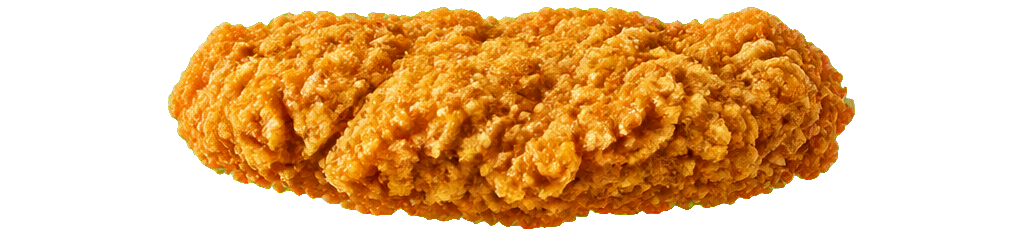
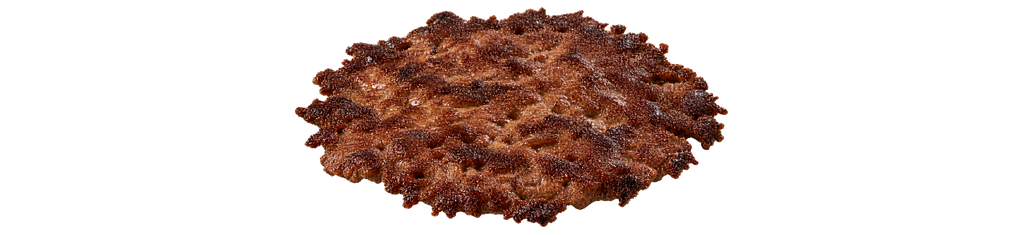
Correct MELT menu and scroll burger to double beef

diff --git a/app/page.tsx b/app/page.tsx
@@ -1,12 +1,12 @@
 import {Navbar} from "@/components/Navbar";import {BurgerScrollHero} from "@/components/BurgerScrollHero";import {ArrowButton} from "@/components/ArrowButton";import {AddToCartButton} from "@/components/cart/AddToCartButton";import {site} from "@/data/site";import {ArrowUpRight} from "lucide-react";
-const qualities=[["DOUBLE CRUNCH","Two hand-breaded chicken fillets."],["MOLTEN CHEESE","Melted between every hot layer."],["FRESH BUNS","Soft sesame brioche, toasted to order."],["HOUSE SAUCE","Creamy heat, mixed in-house."]];
+const qualities=[["DOUBLE SMASH","Two beef patties smashed on a ripping-hot grill."],["MOLTEN CHEESE","Cheddar melted over every beef layer."],["FRESH BUNS","Soft sesame brioche, toasted to order."],["HOUSE SAUCE","Creamy heat, mixed in-house."]];
 export default function Home(){return <main><Navbar/><BurgerScrollHero/>
 <section id="stacks" className="stacks section-pad"><div className="eyebrow">01 — MELT FAVOURITES</div><h2>MEET THE<br/><em>MELTS.</em></h2><div className="burger-grid">{site.burgers.map((b,i)=><article className={`burger-card ${b.tone}`} key={b.name}><div className="product-art"><div role="img" aria-label={b.name} className="mini-burger" style={{backgroundImage:"url('/assets/zinger-assembled.png')"}}/><span>0{i+1}</span></div><div className="card-copy"><div><h3>{b.name}</h3><p>{b.desc}</p></div><div className="card-actions"><div className="price">Rs. {b.price.toLocaleString("en-PK")}</div><AddToCartButton item={{id:`burger-${i}`,name:b.name,price:b.price}}/></div></div></article>)}</div></section>
-<section id="combos" className="combo"><div className="combo-copy"><div className="eyebrow">02 — GO ALL IN</div><h2>MAKE IT<br/><i>A MELT.</i></h2><p>MIGHTY ZINGER + SEASONED FRIES + AN ICE-COLD POUR.</p><ArrowButton href="#menu">BUILD YOUR COMBO</ArrowButton></div><div className="combo-visual"><div className="fries">FRIES<span>HOT / CRISP / SEASONED</span></div><div className="cup">MELT<small>ICE COLD</small></div><div className="combo-burger"/></div></section>
+<section id="combos" className="combo"><div className="combo-copy"><div className="eyebrow">02 — GO ALL IN</div><h2>MAKE IT<br/><i>A MELT.</i></h2><p>THE WACKO + CRINKLE FRIES + AN ICE-COLD POUR.</p><ArrowButton href="#menu">BUILD YOUR COMBO</ArrowButton></div><div className="combo-visual"><div className="fries">FRIES<span>HOT / CRISP / SEASONED</span></div><div className="cup">MELT<small>ICE COLD</small></div><div className="combo-burger"/></div></section>
 <section id="quality" className="quality section-pad"><div className="eyebrow">03 — BUILT DIFFERENT</div><h2>NO<br/><em>HALF MEASURES.</em></h2><div className="quality-list">{qualities.map((x,i)=><div key={x[0]}><span>0{i+1}</span><h3>{x[0]}</h3><p>{x[1]}</p></div>)}</div></section>
 <section className="manifesto"><span>FRIED FRESH.</span><span>STACKED DOUBLE.</span><span className="hot">MELTED HOT.</span></section>
 <section id="menu" className="menu-section section-pad"><div className="menu-head"><div><div className="eyebrow">04 — THE MENU</div><h2>PICK YOUR<br/><em>CRAVING.</em></h2></div><p>Made fresh.<br/>Packed hot.</p></div><div className="menu-columns">{Object.entries(site.menu).map(([cat,items])=><div className="menu-cat" key={cat}><h3>{cat}</h3>{items.map(item=><div className="menu-item" key={item[0]}><div><b>{item[0]}</b><span>{item[1]}</span></div><div className="menu-buy"><strong>Rs. {Number(item[2]).toLocaleString("en-PK")}</strong><AddToCartButton compact item={{id:`${cat}-${item[0]}`.toLowerCase().replaceAll(" ","-"),name:item[0],price:Number(item[2])}}/></div></div>)}</div>)}</div></section>
 <section className="fries-feature"><div><span>THE CRUNCH<br/>NEEDS COMPANY.</span><h2>DON&apos;T FORGET<br/><i>THE FRIES.</i></h2></div><div className="fries-pile">LOAD<br/>THE<br/>FRIES.</div></section>
 <section id="locations" className="locations section-pad"><div className="eyebrow">05 — COME THROUGH</div><h2>FIND<br/><em>MELT.</em></h2><div className="location-list">{site.locations.map((l,i)=><a href={`https://www.google.com/maps/search/?api=1&query=${encodeURIComponent(`MELT ${l.address} ${l.city}`)}`} target="_blank" rel="noreferrer" key={l.city}><span>0{i+1}</span><h3>{l.city}</h3><p>{l.address}<br/>{l.hours}</p><ArrowUpRight/></a>)}</div></section>
-<section id="order" className="order-cta"><div className="eyebrow">YOUR DOUBLE MELT IS WAITING.</div><h2>HUNGRY<br/><i>YET?</i></h2><ArrowButton light href="#stacks">ORDER NOW</ArrowButton></section>
-<footer><div className="footer-brand">MELT</div><div className="footer-links"><div><b>EXPLORE</b><a href="#menu">Menu</a><a href="#locations">Location</a><a href="#quality">Our food</a></div><div><b>CONNECT</b><a href="https://instagram.com/meltpk" target="_blank" rel="noreferrer">Instagram</a><a href="#order">Order</a></div><div><b>SUPPORT</b><a href="#quality">Ingredients</a><a href="#locations">Directions</a></div></div><div className="footer-bottom">UNOFFICIAL MELT WEBSITE CONCEPT <span>BUILT HOT IN LAHORE.</span></div></footer></main>}
+<section id="order" className="order-cta"><div className="eyebrow">YOUR DOUBLE SMASH IS WAITING.</div><h2>HUNGRY<br/><i>YET?</i></h2><ArrowButton light href="#stacks">ORDER NOW</ArrowButton></section>
+<footer><div className="footer-brand">MELT</div><div className="footer-links"><div><b>EXPLORE</b><a href="#menu">Menu</a><a href="#locations">Location</a><a href="#quality">Our food</a></div><div><b>CONNECT</b><a href="https://www.facebook.com/MELTpk/" target="_blank" rel="noreferrer">Facebook</a><a href="https://now.menu/melt" target="_blank" rel="noreferrer">Direct menu</a></div><div><b>SUPPORT</b><a href="#quality">Ingredients</a><a href="#locations">Directions</a></div></div><div className="footer-bottom">UNOFFICIAL MELT WEBSITE CONCEPT <span>BUILT HOT IN LAHORE.</span></div></footer></main>}

diff --git a/app/globals.css b/app/globals.css
@@ -65,5 +65,7 @@ section[id]{scroll-margin-top:76px}a,button{-webkit-tap-highlight-color:transpar
 /* MELT Lahore concept system */
 :root{--yellow:#ff6b1a;--red:#ff4b18;--cream:#f5efe5;--ink:#171411}.hero{background:#151311}.hero:before{content:"MELT";color:#261d17}.nav{background:#f5efe5;color:#171411;border-color:#d9cec0}.melt-mark{display:flex;flex-direction:column;align-items:flex-start;gap:0;color:#ff5418}.melt-mark b{font:29px/.8 'Archivo Black';letter-spacing:-.08em}.melt-mark small{font:7px 'Archivo Black';letter-spacing:.28em;margin-left:2px}.hero-kicker i,.complete-copy i,.stacks h2 em,.combo h2 i,.menu-head em,.locations h2 em{color:#ff6b1a}.story-progress i{background:#ff6b1a}.burger-card.orange{background:#ff6b1a;color:#171411}.burger-card.red{background:#df3e1f}.burger-card.cream{background:#f5efe5}.combo{background:#ff6b1a}.fries{background:#171411}.fries:before{color:#f5efe5}.fries-feature,.order-cta{background:#171411}.fries-feature i,.order-cta i{color:#ff6b1a!important}.fries-pile{background:#ff6b1a;color:#171411}.menu-cat h3,.footer-links b{color:#ff6b1a}.burger-card:nth-child(1) .mini-burger{background-image:url('/assets/mighty-zinger-v2.png')!important;background-size:78%}.burger-card:nth-child(2) .mini-burger{background-image:url('/assets/zinger-assembled.png')!important;background-size:contain}.box-front{background:#ff6b1a;color:#171411}.box-front:before{content:"DOUBLE CRUNCH · DOUBLE CHEESE"}.box-front:after{content:"MIGHTY MELT BOX"}.box-front strong{background:#171411;color:#f5efe5}.box-front small{background:#f5efe5}.box-lid{background:#171411;color:#ff6b1a}.box-lid span{background:#ff6b1a;color:#171411}.box-interior{border-color:#ff6b1a}.footer-brand:before{content:"MELT"}.mobile-menu{background:#f5efe5;color:#171411}.cart-nav span{background:#ff6b1a;color:#171411}@media(max-width:699px){.burger-card:nth-child(1) .mini-burger{background-size:88%}}
 .combo-burger{background-image:url('/assets/mighty-zinger-v2.png');mix-blend-mode:normal}.layer-removed{display:block!important}@media(prefers-reduced-motion:reduce){.layer-0{transform:translateY(-158px)!important}.layer-1{transform:translateY(-111px)!important}.layer-2{display:block!important;transform:translateY(-79px)!important}.layer-3{transform:translateY(-47px)!important}.layer-4{transform:translateY(-15px)!important}.layer-5{transform:translateY(17px)!important}.layer-6{transform:translateY(48px)!important}.layer-7{transform:translateY(88px)!important}}
+.burger-card:nth-child(1) .mini-burger,.burger-card:nth-child(2) .mini-burger,.burger-card:nth-child(3) .mini-burger,.burger-card:nth-child(4) .mini-burger{background-image:url('/assets/double-smash-melt-v2.png')!important;background-size:76%;mix-blend-mode:normal}.combo-burger{background-image:url('/assets/double-smash-melt-v2.png')}.box-front:before{content:"DOUBLE BEEF · DOUBLE CHEESE"}.box-front:after{content:"THE WACKO BOX"}@media(max-width:699px){.burger-card:nth-child(n) .mini-burger{background-size:86%}}
+.whatsapp-float{display:none}
 
 

diff --git a/data/site.ts b/data/site.ts
@@ -5,22 +5,22 @@ export const site={
   {id:"top",name:"GOLDEN CROWN",note:"Soft sesame brioche."},
   {id:"lettuce",name:"CRISP LETTUCE",note:"Cold crunch in every bite."},
   {id:"cheese-top",name:"MELTED CHEESE",note:"A molten cheddar blanket."},
-  {id:"patty-top",name:"CRISPY FILLET ONE",note:"Hand-breaded and fried golden."},
+  {id:"patty-top",name:"SMASH PATTY ONE",note:"Beef smashed hard on the grill."},
   {id:"cheese-bottom",name:"MORE CHEESE",note:"Because one layer is never enough."},
-  {id:"patty-bottom",name:"CRISPY FILLET TWO",note:"The mighty second crunch."},
+  {id:"patty-bottom",name:"SMASH PATTY TWO",note:"A second juicy beef layer."},
   {id:"sauce",name:"MELT SAUCE",note:"Creamy heat, made in-house."},
   {id:"bottom",name:"TOASTED BASE",note:"Built from the bottom up."}
  ],
  burgers:[
-  {name:"MIGHTY ZINGER",desc:"Double crispy chicken, double cheddar, lettuce and Melt sauce",price:999,tone:"orange"},
-  {name:"THE WACKO",desc:"Crispy chicken, molten cheese, pickles and house sauce",price:849,tone:"cream"},
-  {name:"SMOKEY MELT",desc:"Crispy chicken, smoked cheddar, caramelized onion and BBQ",price:949,tone:"red"},
-  {name:"FIRE MELT",desc:"Hot chicken, jalapeño, cheese and spicy comeback sauce",price:899,tone:"dark"}
+  {name:"THE WACKO",desc:"Double smashed beef, double cheddar, pickles and Melt sauce",price:999,tone:"orange"},
+  {name:"CLASSIC-O",desc:"Smashed beef, molten cheese, pickles and house sauce",price:749,tone:"cream"},
+  {name:"SMOKEY DOKEY",desc:"Double beef, smoked cheddar, caramelized onion and BBQ",price:949,tone:"red"},
+  {name:"FIERY SRIRACHA",desc:"Double beef, jalapeño, cheese and spicy sriracha sauce",price:899,tone:"dark"}
  ],
  menu:{
-  BURGERS:[["Mighty Zinger","Double chicken · double cheese · Melt sauce","999"],["The Wacko","Crispy chicken · cheddar · house sauce","849"],["Fire Melt","Hot chicken · jalapeño · comeback sauce","899"]],
-  CHICKEN:[["Crispy Strips","Three strips · house dip","749"],["Hot Wings","Six wings · hot glaze","799"]],
-  SIDES:[["Melt Fries","Golden · seasoned","349"],["Loaded Fries","Chicken · cheese · Melt sauce","699"],["Onion Rings","Crispy · ranch","449"]],
+  "BEEF SMASH BURGERS":[["The Wacko","Double beef · double cheese · Melt sauce","999"],["Classic-O","Smashed beef · cheddar · house sauce","749"],["Smokey Dokey","Double beef · onion · smoked BBQ","949"]],
+  STARTERS:[["Mozzarella Bites","Crispy · molten cheese","449"],["Cheeto Poppers","Crunchy · spicy dip","549"]],
+  SIDES:[["Crinkle Fries","Golden · seasoned","349"],["Beef Loaded Fries","Beef · cheese · Melt sauce","699"],["Onion Rings","Crispy · ranch","449"]],
   DRINKS:[["Lotus Shake","Thick · creamy · biscuit crumb","549"],["Soft Drink","Ice cold","180"]]
  },
  locations:[{city:"DHA PHASE 4, LAHORE",address:"12 CC, opposite Goldcrest Mall",hours:"Open daily · check social pages for hours"}]

diff --git a/components/BurgerScrollHero.tsx b/components/BurgerScrollHero.tsx
@@ -39,13 +39,13 @@ export function BurgerScrollHero(){
   const stepNumber=(i:number)=>String(rebuildOrder.indexOf(i)+1).padStart(2,"0");
   return <section ref={root} id="top" className="hero">
     <div className="hero-topline"><span>MELT · LAHORE</span><span>FRIED FRESH · STACKED HOT</span></div>
-    <div className="hero-kicker"><span>THE MIGHTY,<br/><i>DOUBLE MELT.</i></span><p>SCROLL TO BUILD ↓</p></div>
+    <div className="hero-kicker"><span>THE WACKO,<br/><i>DOUBLE SMASHED.</i></span><p>SCROLL TO BUILD ↓</p></div>
     <div className="label-intro">ANATOMY OF A CRAVING</div>
     <div className="burger-stage">{site.layers.map((l,i)=><div key={l.id} className={`layer layer-${i}`} aria-hidden="true"><Image src={`/assets/layers/${l.id}.png`} alt="" width={1024} height={layerHeights[i]} priority sizes="(max-width: 699px) 285px, 410px" draggable={false}/></div>)}</div>
     <div className="step-labels">{site.layers.map((l,i)=><div className={`step step-${i}`} key={l.id}><b>{stepNumber(i)} / {l.name}</b><span>{l.note}</span></div>)}</div>
-    <div className="story-progress"><span>BUILDING THE MIGHTY</span><div><i className="progress-fill"/></div></div>
+    <div className="story-progress"><span>BUILDING THE WACKO</span><div><i className="progress-fill"/></div></div>
     <div className="complete-copy">DOUBLE<br/><i>THE MELT.</i></div>
-    <div className="package-wrap"><div className="package"><div className="box-interior"><span>DROP IT HOT</span></div><div className="box-lid">MELT <span>LAHORE</span></div><div className="box-front"><small>STACKED HOT. PACKED FRESH.</small><strong>MELT</strong></div></div></div>
+    <div className="package-wrap"><div className="package"><div className="box-interior"><span>DROP IT HOT</span></div><div className="box-lid">MELT <span>LAHORE</span></div><div className="box-front"><small>SMASHED HOT. PACKED FRESH.</small><strong>MELT</strong></div></div></div>
     <div className="hero-outro">MELT<br/>DELIVERED.</div>
   </section>;
 }

diff --git a/app/layout.tsx b/app/layout.tsx
@@ -2,5 +2,5 @@ import type {Metadata} from "next";
 import "./globals.css";
 import {CartProvider} from "@/components/cart/CartProvider";
 
-export const metadata:Metadata={title:"MELT Lahore — Burgers Built Hot",description:"A premium concept experience for MELT Lahore featuring Mighty Zingers, loaded fries and shakes."};
+export const metadata:Metadata={title:"MELT Lahore — Double Smash Burgers",description:"A premium concept experience for MELT Lahore featuring smashed beef burgers, loaded fries and shakes."};
 export default function RootLayout({children}:{children:React.ReactNode}){return <html lang="en" suppressHydrationWarning><body suppressHydrationWarning><CartProvider>{children}</CartProvider></body></html>}
